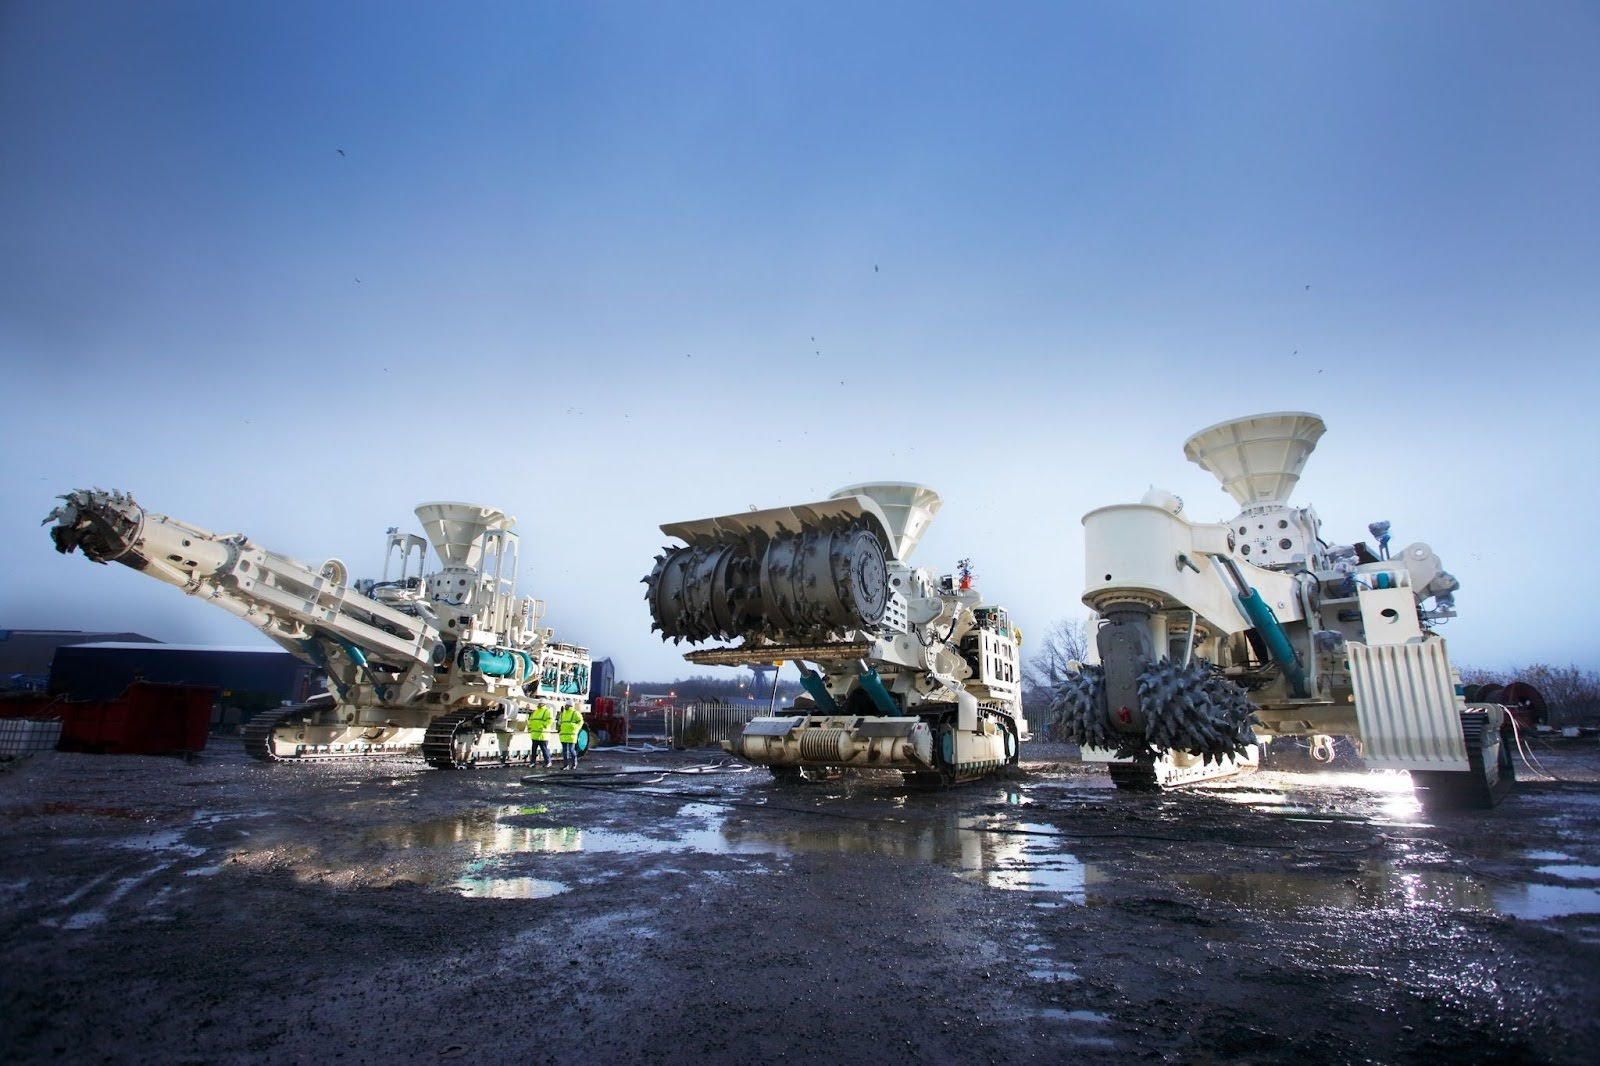
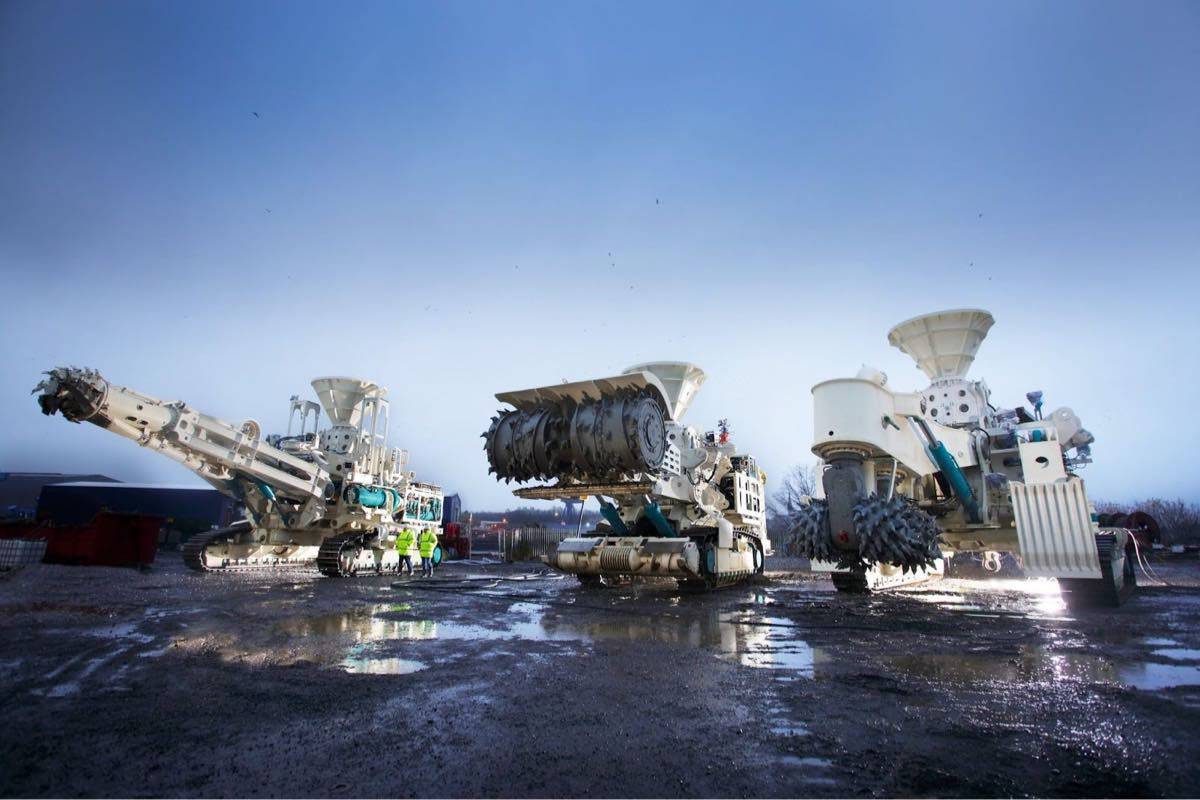
add missing dsm popup image

diff --git a/apps/fishing-map/features/welcome/welcome.content.ts b/apps/fishing-map/features/welcome/welcome.content.ts
@@ -268,6 +268,7 @@ const WELCOME_POPUP_CONTENT: {
           <li>Rabone, M., Wiethase, J. H., Simon-Lledó, E., Emery, A. M., Jones, D. O., Dahlgren, T. G., ... & Glover, A. G. (2023). How many metazoan species live in the world’s largest mineral exploration region?. Current biology, 33(12), 2383-2396. https://doi.org/10.1016/j.cub.2023.04.052</li>
           <li>Niner, H. J., Ardron, J. A., Escobar, E. G., Gianni, M., Jaeckel, A., Jones, D. O., ... & Gjerde, K. M. (2018). Deep-sea mining with no net loss of biodiversity—an impossible aim. Frontiers in Marine Science, 5, 53. https://doi.org/10.3389/fmars.2018.00053</li>
         </ul>
+        <img src="${PATH_BASENAME}/images/welcome-popup/deep-sea-mining.jpg" alt="Deep Sea Mining Watch" />
         <p>For inquiries, please contact <a href="mailto:bosl-contact@ucsb.edu">bosl-contact@ucsb.edu</a></p>
       `,
     },

diff --git a/apps/fishing-map/features/welcome/Welcome.module.css b/apps/fishing-map/features/welcome/Welcome.module.css
@@ -41,6 +41,13 @@
   margin-left: var(--space-M);
 }
 
+.contentContainer img {
+  max-width: 100%;
+  height: auto;
+  margin-top: var(--space-S);
+  margin-bottom: var(--space-S);
+}
+
 .contentContainer h2 img {
   width: 4rem;
 }
